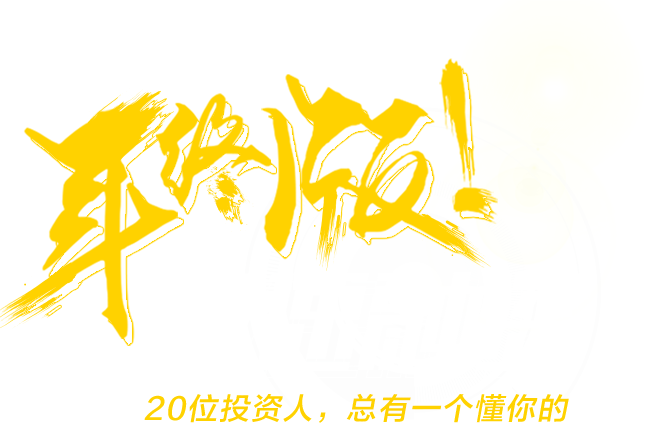
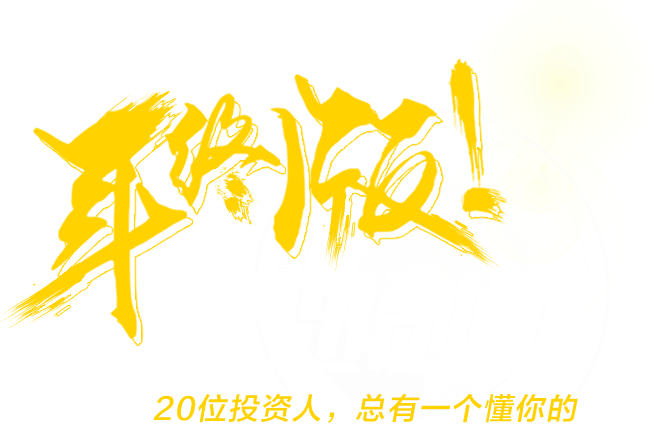
investor  初版   样式需要重新调整，banner需要更换，20 -》21；光晕调整

diff --git a/src/styles/j4investor.less b/src/styles/j4investor.less
@@ -30,8 +30,9 @@ html,body{
   padding: 1px 0 0 0;
   width: 100%;
   height: 100%;
-  background: url("images/jisu3/investor_bg.jpg");
+  background: url("images/jisu4/word-investor_banner.jpg") no-repeat center top;
   background-size: 100% auto;
+    background-color: #000;
 
   .logo{
     width: 17%;
@@ -49,7 +50,7 @@ html,body{
     position: absolute;
     width: 26px;
     height: 26px;
-    background: url(images/jisu3/2.png) no-repeat;
+    background: url(images/jisu4/radio.png) no-repeat;
     background-size: contain;
     top: 20px;
     right: 20px;
@@ -59,8 +60,8 @@ html,body{
     width: 100%;
   }
   .title{
-    width: 68%;
-    margin: 56px auto 20px;
+    width: 90%;
+    margin: 26px auto 20px;
     position: absolute;
     left: 50%;
     transform: translateX(-50%);
